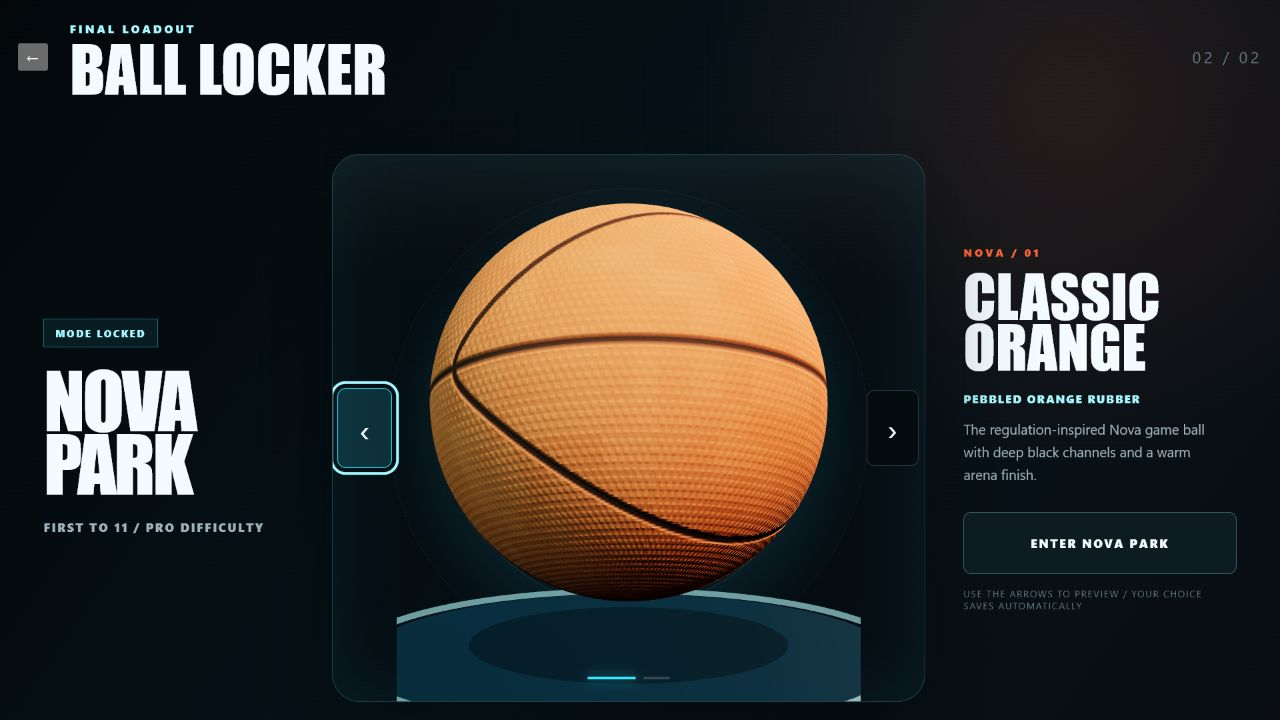
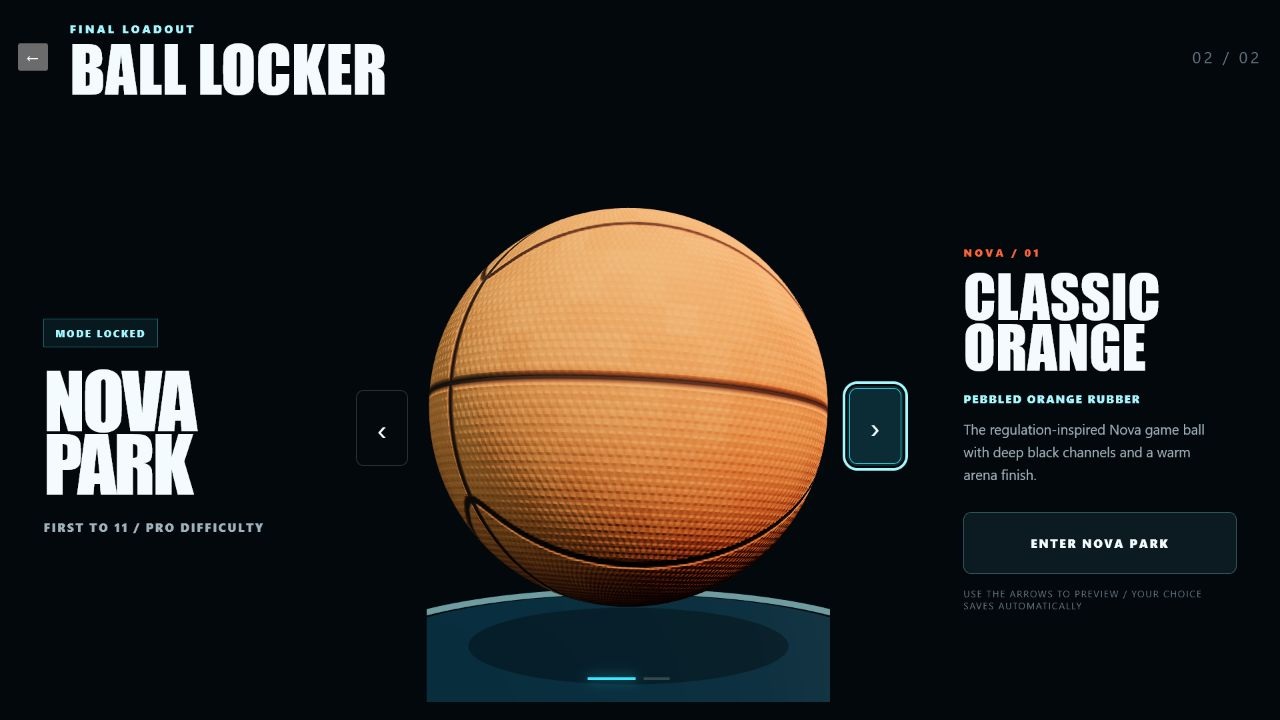
Refine Ball Locker spacing

diff --git a/dist/js/ui-ball-selection.css b/dist/js/ui-ball-selection.css
@@ -1,23 +1,11 @@
 .screen--ball-select {
   z-index: 24;
   overflow: hidden;
-  background:
-    radial-gradient(circle at 50% 52%, rgba(56, 232, 255, .16), transparent 31%),
-    radial-gradient(circle at 84% 14%, rgba(255, 100, 56, .13), transparent 30%),
-    linear-gradient(125deg, #03070a 0%, #06131a 54%, #090d13 100%);
+  background: #03080c;
 }
 
 .screen--ball-select::before {
-  position: absolute;
-  inset: 0;
-  content: "";
-  pointer-events: none;
-  opacity: .38;
-  background-image:
-    linear-gradient(rgba(94, 226, 245, .07) 1px, transparent 1px),
-    linear-gradient(90deg, rgba(94, 226, 245, .07) 1px, transparent 1px);
-  background-size: 64px 64px;
-  mask-image: radial-gradient(circle at center, black, transparent 76%);
+  display: none;
 }
 
 .ball-locker {
@@ -85,26 +73,16 @@
   position: relative;
   display: grid;
   min-height: 430px;
-  grid-template-columns: 64px minmax(0, 1fr) 64px;
+  grid-template-columns: 54px minmax(0, 1fr) 54px;
   align-items: center;
-  border: 1px solid rgba(104, 235, 255, .24);
-  border-radius: 28px;
-  overflow: hidden;
-  background:
-    linear-gradient(180deg, rgba(255, 255, 255, .035), transparent 24%),
-    radial-gradient(circle at center, rgba(34, 111, 131, .28), rgba(4, 12, 17, .74) 60%);
-  box-shadow:
-    inset 0 0 70px rgba(58, 224, 255, .08),
-    0 28px 90px rgba(0, 0, 0, .42);
+  column-gap: clamp(12px, 1.4vw, 20px);
+  padding-inline: clamp(14px, 1.8vw, 24px);
+  overflow: visible;
 }
 
 .ball-locker__picker::before,
 .ball-locker__picker::after {
-  position: absolute;
-  z-index: 0;
-  content: "";
-  pointer-events: none;
-  border-radius: 50%;
+  display: none;
 }
 
 .ball-locker__picker::before {
@@ -161,7 +139,8 @@
 .ball-arrow:focus-visible {
   border-color: var(--cyan);
   background: rgba(30, 115, 133, .34);
-  transform: scale(1.05);
+  box-shadow: 0 0 0 2px rgba(56, 232, 255, .16);
+  transform: translateY(-2px);
 }
 
 .ball-locker__dots {
@@ -273,8 +252,15 @@
   .ball-locker__mode p { margin: 0; font-size: .6rem; }
   .ball-locker__picker,
   .ball-locker__preview { min-height: 320px; }
-  .ball-locker__picker { grid-template-columns: 50px minmax(0, 1fr) 50px; }
+  .ball-locker__picker {
+    --ball-arrow-inset: clamp(0px, calc((100vw - 420px) * .34), 88px);
+    grid-template-columns: 42px minmax(0, 1fr) 42px;
+    column-gap: 8px;
+    padding-inline: 10px;
+  }
   .ball-arrow { width: 42px; height: 58px; }
+  #previous-ball { translate: var(--ball-arrow-inset) 0; }
+  #next-ball { translate: calc(var(--ball-arrow-inset) * -1) 0; }
   .ball-locker__details {
     display: block;
     padding: 0 0 16px;

diff --git a/js/ui-ball-selection.css b/js/ui-ball-selection.css
@@ -1,23 +1,11 @@
 .screen--ball-select {
   z-index: 24;
   overflow: hidden;
-  background:
-    radial-gradient(circle at 50% 52%, rgba(56, 232, 255, .16), transparent 31%),
-    radial-gradient(circle at 84% 14%, rgba(255, 100, 56, .13), transparent 30%),
-    linear-gradient(125deg, #03070a 0%, #06131a 54%, #090d13 100%);
+  background: #03080c;
 }
 
 .screen--ball-select::before {
-  position: absolute;
-  inset: 0;
-  content: "";
-  pointer-events: none;
-  opacity: .38;
-  background-image:
-    linear-gradient(rgba(94, 226, 245, .07) 1px, transparent 1px),
-    linear-gradient(90deg, rgba(94, 226, 245, .07) 1px, transparent 1px);
-  background-size: 64px 64px;
-  mask-image: radial-gradient(circle at center, black, transparent 76%);
+  display: none;
 }
 
 .ball-locker {
@@ -85,26 +73,16 @@
   position: relative;
   display: grid;
   min-height: 430px;
-  grid-template-columns: 64px minmax(0, 1fr) 64px;
+  grid-template-columns: 54px minmax(0, 1fr) 54px;
   align-items: center;
-  border: 1px solid rgba(104, 235, 255, .24);
-  border-radius: 28px;
-  overflow: hidden;
-  background:
-    linear-gradient(180deg, rgba(255, 255, 255, .035), transparent 24%),
-    radial-gradient(circle at center, rgba(34, 111, 131, .28), rgba(4, 12, 17, .74) 60%);
-  box-shadow:
-    inset 0 0 70px rgba(58, 224, 255, .08),
-    0 28px 90px rgba(0, 0, 0, .42);
+  column-gap: clamp(12px, 1.4vw, 20px);
+  padding-inline: clamp(14px, 1.8vw, 24px);
+  overflow: visible;
 }
 
 .ball-locker__picker::before,
 .ball-locker__picker::after {
-  position: absolute;
-  z-index: 0;
-  content: "";
-  pointer-events: none;
-  border-radius: 50%;
+  display: none;
 }
 
 .ball-locker__picker::before {
@@ -161,7 +139,8 @@
 .ball-arrow:focus-visible {
   border-color: var(--cyan);
   background: rgba(30, 115, 133, .34);
-  transform: scale(1.05);
+  box-shadow: 0 0 0 2px rgba(56, 232, 255, .16);
+  transform: translateY(-2px);
 }
 
 .ball-locker__dots {
@@ -273,8 +252,15 @@
   .ball-locker__mode p { margin: 0; font-size: .6rem; }
   .ball-locker__picker,
   .ball-locker__preview { min-height: 320px; }
-  .ball-locker__picker { grid-template-columns: 50px minmax(0, 1fr) 50px; }
+  .ball-locker__picker {
+    --ball-arrow-inset: clamp(0px, calc((100vw - 420px) * .34), 88px);
+    grid-template-columns: 42px minmax(0, 1fr) 42px;
+    column-gap: 8px;
+    padding-inline: 10px;
+  }
   .ball-arrow { width: 42px; height: 58px; }
+  #previous-ball { translate: var(--ball-arrow-inset) 0; }
+  #next-ball { translate: calc(var(--ball-arrow-inset) * -1) 0; }
   .ball-locker__details {
     display: block;
     padding: 0 0 16px;

diff --git a/dist/js/app.js b/dist/js/app.js
@@ -114,7 +114,7 @@ for (const href of [
   "./js/ui-hud-polish.css?v=1.1",
   "./js/ui-profile-polish.css?v=1.1",
   "./js/ui-shooting-settings.css?v=1.0",
-  "./js/ui-ball-selection.css?v=1.0",
+  "./js/ui-ball-selection.css?v=1.4",
 ]) {
   const stylesheet = document.createElement("link");
   stylesheet.rel = "stylesheet";

diff --git a/js/app.js b/js/app.js
@@ -114,7 +114,7 @@ for (const href of [
   "./js/ui-hud-polish.css?v=1.1",
   "./js/ui-profile-polish.css?v=1.1",
   "./js/ui-shooting-settings.css?v=1.0",
-  "./js/ui-ball-selection.css?v=1.0",
+  "./js/ui-ball-selection.css?v=1.4",
 ]) {
   const stylesheet = document.createElement("link");
   stylesheet.rel = "stylesheet";

diff --git a/dist/index.html b/dist/index.html
@@ -395,6 +395,6 @@
 
   <noscript>NOVA COURT needs JavaScript enabled to run.</noscript>
   <script src="./vendor/three.min.js"></script>
-  <script type="module" src="./js/app.js?v=7.6"></script>
+  <script type="module" src="./js/app.js?v=7.8"></script>
 </body>
 </html>

diff --git a/index.html b/index.html
@@ -395,6 +395,6 @@
 
   <noscript>NOVA COURT needs JavaScript enabled to run.</noscript>
   <script src="./vendor/three.min.js"></script>
-  <script type="module" src="./js/app.js?v=7.6"></script>
+  <script type="module" src="./js/app.js?v=7.8"></script>
 </body>
 </html>

diff --git a/screenshots/ball-selection/README.md b/screenshots/ball-selection/README.md
@@ -1,8 +1,9 @@
 # Ball Locker screenshots
 
-Captured at 1280 × 720 from the production menu flow on July 28, 2026.
+Captured from the production menu flow on July 28, 2026.
 
-- `menu-ball-locker-classic.png` — Classic Orange ball selected for Nova Park.
-- `menu-ball-locker-tricolor.png` — Heritage Tricolor ball selected for Nova Park.
+- `menu-ball-locker-classic.png` — Classic Orange selected at 1280 × 720.
+- `menu-ball-locker-tricolor.png` — Heritage Tricolor selected at 1280 × 720.
+- `menu-ball-locker-responsive.png` — Heritage Tricolor and responsive arrow spacing at 680 × 900.
 
-Both captures show the interactive Three.js ball preview used before entering a game mode.
+The captures show the frameless interactive Three.js preview used before entering a game mode.
